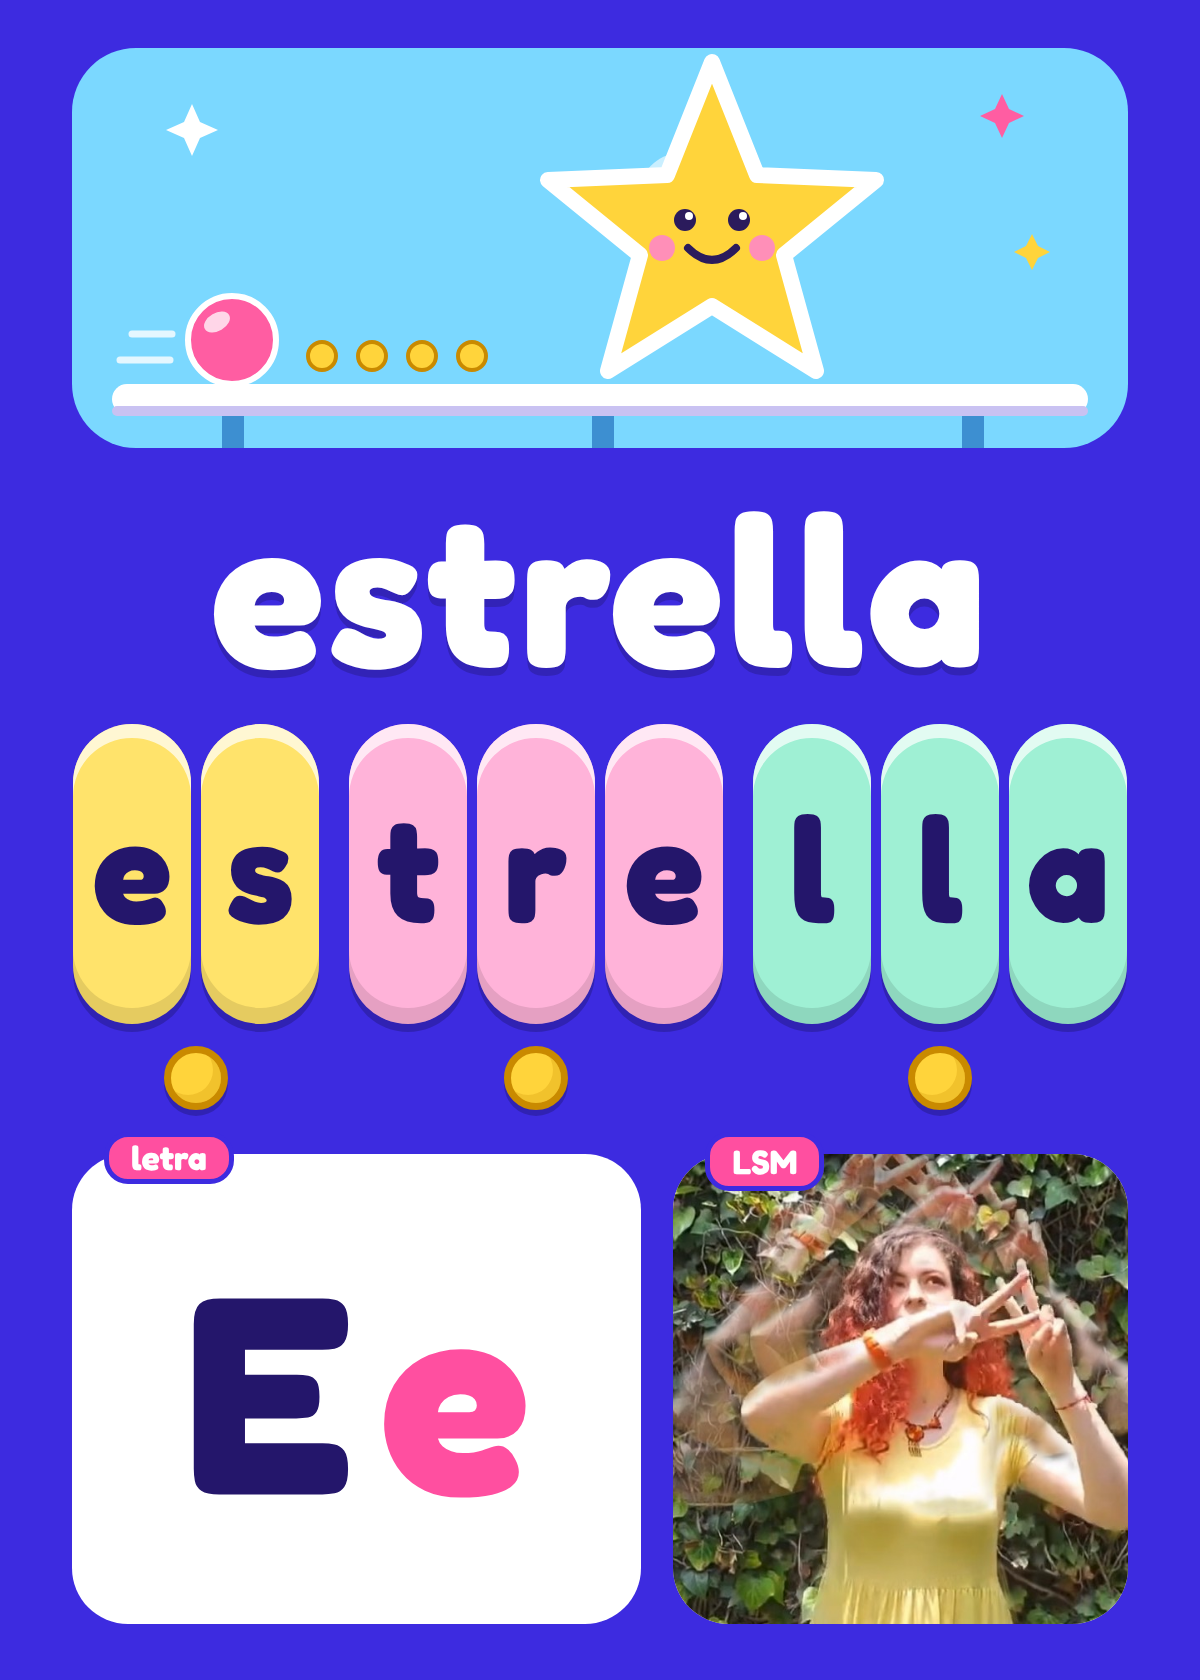
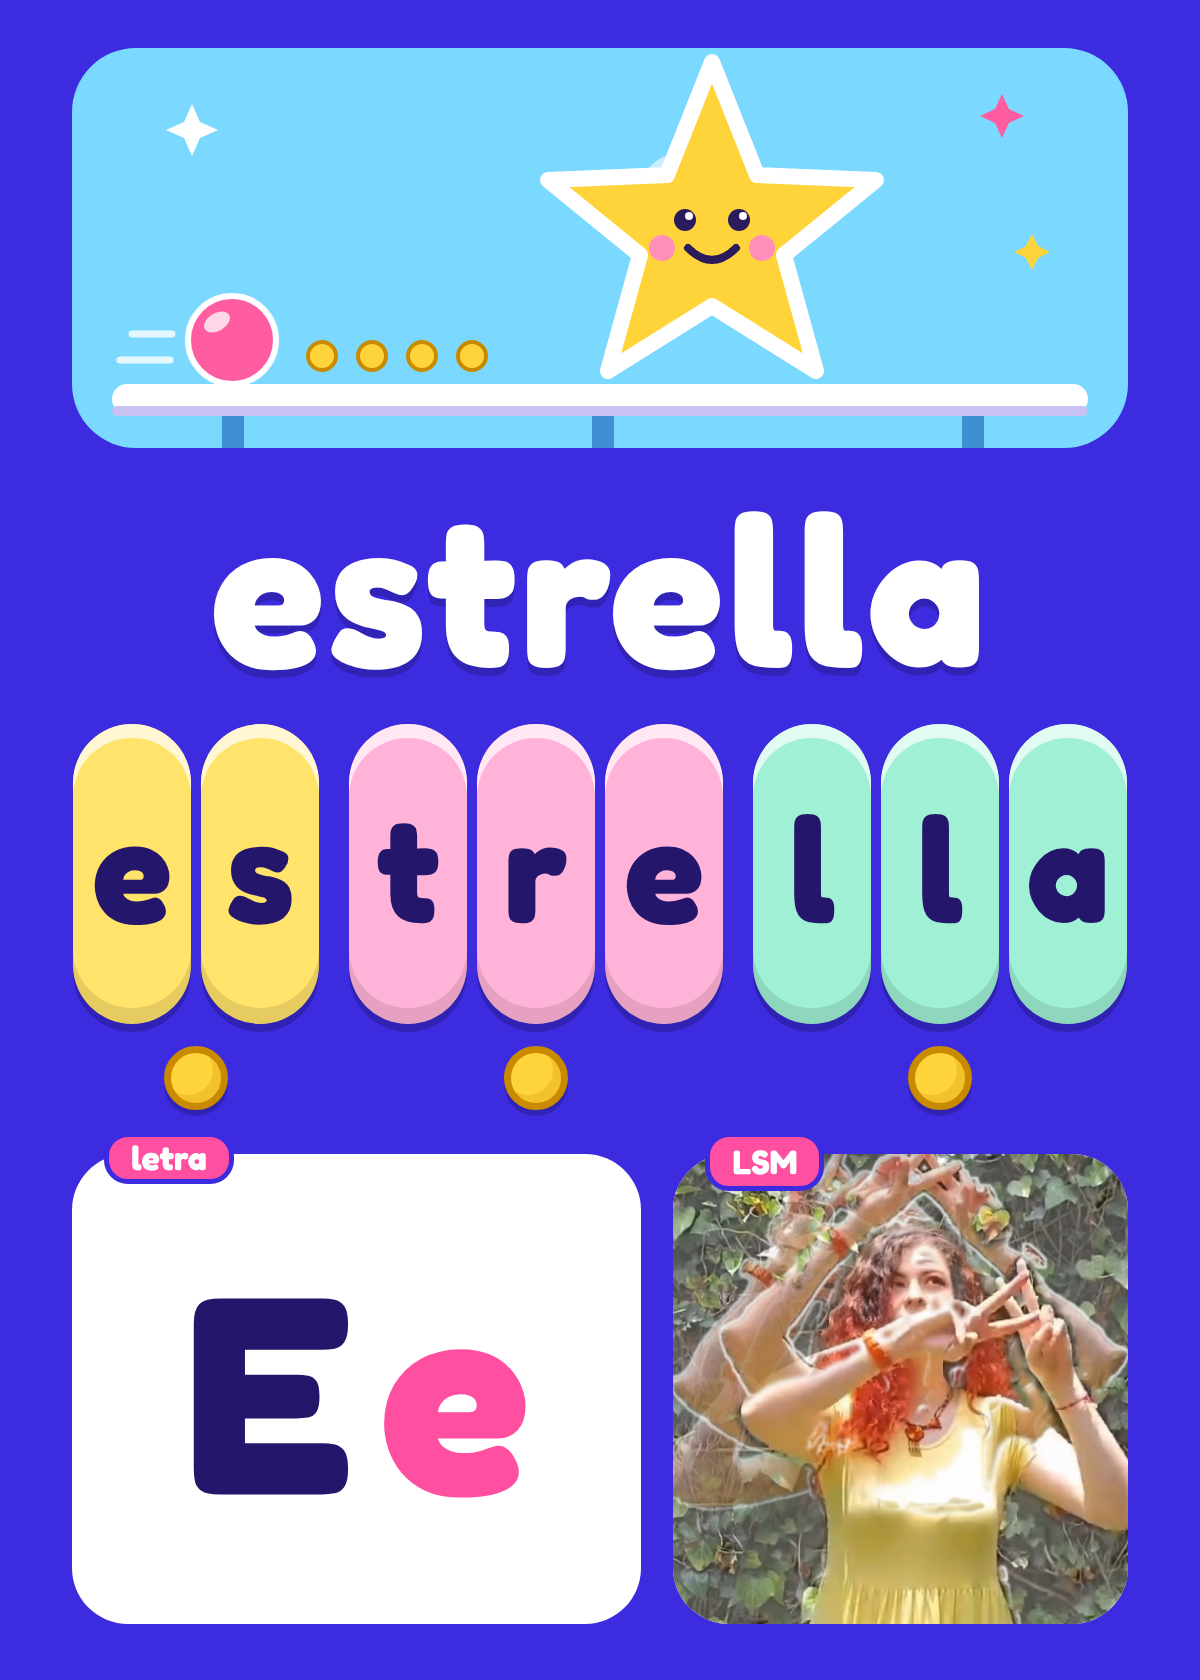
Empalme de la seña: siluetas limpias, contorno blanco en las manos transparentes y fondo suavizado
Claude-Session: https://claude.ai/code/session_015Bpbc8EAm3Wz5jihEE32WP

Changed region(s): [[0.555, 0.681, 0.9558, 0.9905]]

diff --git a/plantilla/empalmar.py b/plantilla/empalmar.py
@@ -1,17 +1,18 @@
 """Empalma varios cuadros de un video de una seña en una sola foto.
 
 El cuadro de INICIO queda completo y nítido; las manos y los brazos de los cuadros
-siguientes se encima con transparencia progresiva (cada vez más transparentes),
-para mostrar hacia dónde va el movimiento.
+siguientes se enciman con transparencia progresiva (cada vez más transparentes) y con
+un contorno blanco para que su forma se distinga. El fondo verde se suaviza para
+que resalten la persona y sus manos.
 
 Uso:
-  python3 plantilla/empalmar.py VIDEO SALIDA.jpg --cuadros 1,14,26,38,50 [--recorte x0,y0,x1,y1]
+  python3 plantilla/empalmar.py VIDEO SALIDA.jpg --cuadros 1,21,33,49 [--recorte x0,y0,x1,y1]
 
   --cuadros  números de cuadro (empiezan en 1); el primero es el inicio.
   --recorte  zona a conservar, en píxeles del video.
 Requiere ffmpeg, Pillow y numpy.
 """
-import argparse, subprocess, tempfile, os
+import argparse, subprocess, tempfile, os, glob
 import numpy as np
 from PIL import Image, ImageFilter
 
@@ -19,38 +20,58 @@ a = argparse.ArgumentParser()
 a.add_argument('video'); a.add_argument('salida')
 a.add_argument('--cuadros', required=True)
 a.add_argument('--recorte')
+a.add_argument('--fondo', type=float, default=.6, help='cuánto suavizar el fondo verde (0 a 1)')
 args = a.parse_args()
 sel = [int(x) for x in args.cuadros.split(',')]
 
 tmp = tempfile.mkdtemp()
 subprocess.run(['ffmpeg', '-v', 'error', '-i', args.video, os.path.join(tmp, 'f_%03d.png')], check=True)
+n = len(glob.glob(os.path.join(tmp, 'f_*.png')))
 L = lambda i: np.asarray(Image.open(os.path.join(tmp, f'f_{i:03d}.png')).convert('RGB')).astype(np.float32)
 
 def piel(f):
     R, G, B = f[..., 0], f[..., 1], f[..., 2]
     return (R > 95) & (R > G + 12) & (R > B + 28)
 
-def suave(b, grow=7, blur=4):
-    m = Image.fromarray((b * 255).astype(np.uint8)).filter(ImageFilter.MaxFilter(grow)).filter(ImageFilter.GaussianBlur(blur))
-    return np.asarray(m).astype(np.float32)[..., None] / 255
+def mascara(b, grow=0, blur=1.4):
+    # silueta limpia: suaviza, vuelve a umbralizar (sin cuadritos) y difumina el borde
+    m = Image.fromarray((b * 255).astype(np.uint8)).filter(ImageFilter.GaussianBlur(2.5))
+    m = Image.fromarray(((np.asarray(m) > 110) * 255).astype(np.uint8))
+    if grow:
+        m = m.filter(ImageFilter.MaxFilter(grow))
+    return np.asarray(m.filter(ImageFilter.GaussianBlur(blur))).astype(np.float32)[..., None] / 255
 
-dif = lambda x, y: np.abs(x - y).sum(axis=2) > 60
+# fondo limpio: mediana de cada píxel ignorando los cuadros donde ahí hay piel
+pila = np.stack([L(i) for i in range(1, n + 1, 2)])
+sk = np.stack([piel(f) for f in pila])[..., None]
+fondo = np.nanmedian(np.where(sk, np.nan, pila), axis=0)
+fondo = np.where(np.isnan(fondo), np.median(pila, axis=0), fondo)
+
+def manos(f):
+    return piel(f) & (np.abs(f - fondo).sum(axis=2) > 70)
 
 inicio = L(sel[0]); resto = sel[1:]
-fr = {i: L(i) for i in resto}
-# transparencia progresiva: de .75 (siguiente) a .38 (último)
-alfas = np.linspace(.75, .38, len(resto)) if len(resto) > 1 else [.6]
-# zona de las manos del inicio: se protege para que quede nítida
-m0 = np.ones(inicio.shape[:2], bool)
-for i in (resto[len(resto) // 2], resto[-1]):
-    m0 &= dif(inicio, fr[i])
-m0 = suave(piel(inicio) & m0, 15, 6)
-out = inicio.copy()
+alfas = np.linspace(.82, .5, len(resto)) if len(resto) > 1 else [.7]
+
+# vestido / ropa clara del inicio: ahí no se dibujan fantasmas
+R, G, B = inicio[..., 0], inicio[..., 1], inicio[..., 2]
+ropa = (R > 140) & (G > 120) & (B < 130) & (np.abs(R - G) < 45)
+permitido = 1 - mascara(ropa, grow=7, blur=3)
+# fondo (lo que no cambia respecto al fondo limpio y no es piel ni ropa): más claro y menos saturado
+es_fondo = (np.abs(inicio - fondo).sum(axis=2) < 45) & ~piel(inicio) & ~ropa
+fm = mascara(es_fondo, blur=4) * args.fondo
+gris = inicio.mean(axis=2, keepdims=True)
+claro = (inicio * .35 + gris * .65) * .6 + 255 * .4
+out = inicio * (1 - fm) + claro * fm
+
+m0 = mascara(manos(inicio), grow=11, blur=3)  # manos del inicio: protegidas y nítidas
 for i, al in reversed(list(zip(resto, alfas))):
-    f = fr[i]; m = suave(piel(f) & dif(f, inicio)) * (1 - m0) * al
-    out = out * (1 - m) + f * m
+    f = L(i); m = mascara(manos(f)) * (1 - m0) * permitido
+    borde = np.clip(mascara(manos(f), grow=7, blur=1.2) - mascara(manos(f)), 0, 1) * (1 - m0) * permitido
+    out = out * (1 - borde * al) + 255 * borde * al          # contorno blanco
+    out = out * (1 - m * al) + f * (m * al)                   # mano transparente
 img = Image.fromarray(out.clip(0, 255).astype(np.uint8))
 if args.recorte:
     img = img.crop(tuple(int(v) for v in args.recorte.split(',')))
-img.save(args.salida, quality=90)
+img.save(args.salida, quality=92)
 print('Listo:', args.salida, img.size)
